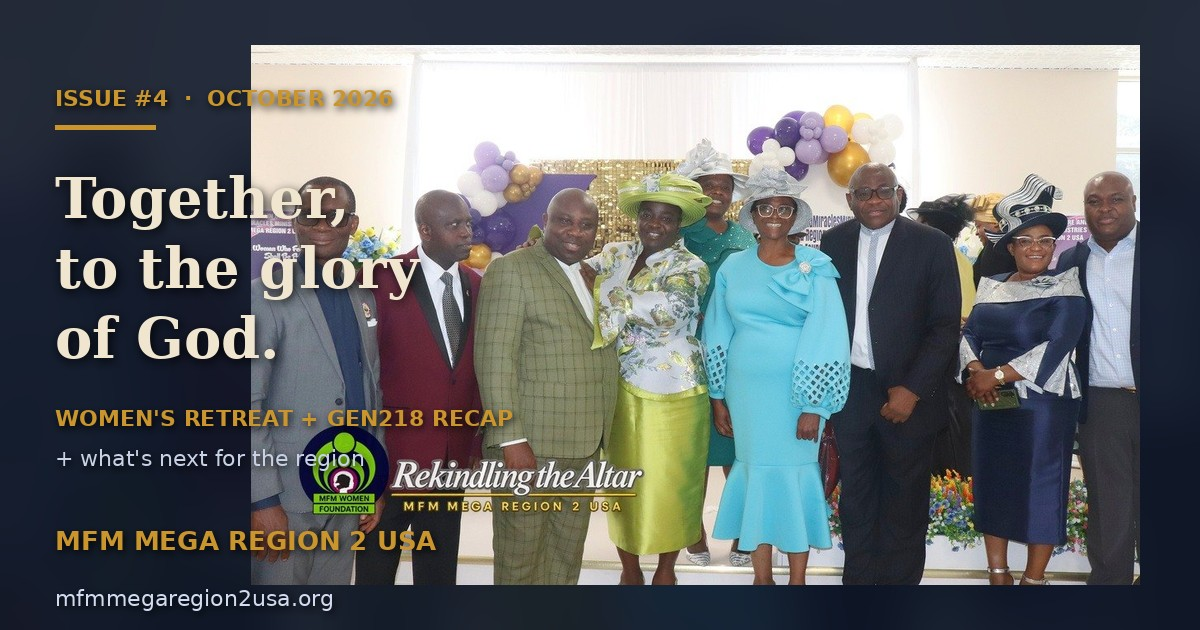
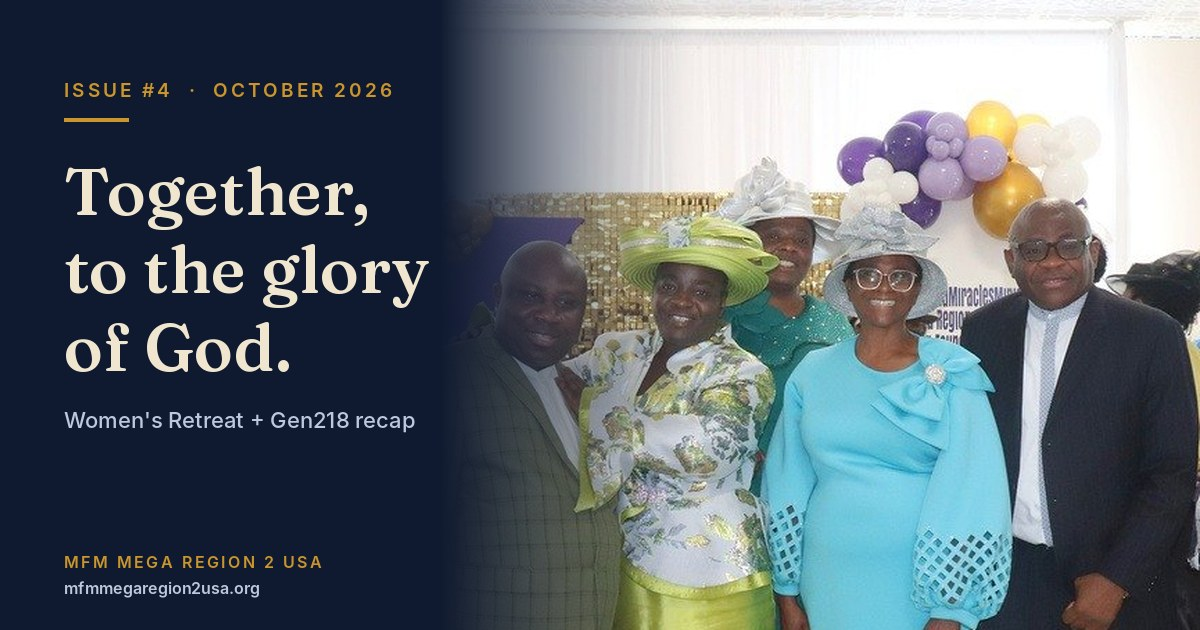
Newsletter: header with All issues / Home, readable Issue #4 cover + hero, WhatsApp share text matches Issue #4
Claude-Session: https://claude.ai/code/session_017aQov46sXv2f5aMMZ73FaV

diff --git a/newsletter/issue-4.html b/newsletter/issue-4.html
@@ -11,7 +11,7 @@
 <meta property="og:site_name" content="MFM Mega Region 2 USA"/>
 <meta property="og:title" content="Together, to the glory of God. — MFM Mega Region 2 Newsletter"/>
 <meta property="og:description" content="The altar burned. The next generation prayed. Here&#x27;s what carries forward."/>
-<meta property="og:image" content="https://www.mfmmegaregion2usa.org/img/newsletter/issue-4-og.jpg"/>
+<meta property="og:image" content="https://www.mfmmegaregion2usa.org/img/newsletter/issue-4-og.jpg?v=2"/>
 <meta property="og:image:width" content="1200"/>
 <meta property="og:image:height" content="630"/>
 <meta property="og:url" content="https://www.mfmmegaregion2usa.org/newsletter/issue-4"/>
@@ -19,7 +19,7 @@
 <meta name="twitter:card" content="summary_large_image"/>
 <meta name="twitter:title" content="Together, to the glory of God. — MFM Mega Region 2 Newsletter"/>
 <meta name="twitter:description" content="The altar burned. The next generation prayed. Here&#x27;s what carries forward."/>
-<meta name="twitter:image" content="https://www.mfmmegaregion2usa.org/img/newsletter/issue-4-og.jpg"/>
+<meta name="twitter:image" content="https://www.mfmmegaregion2usa.org/img/newsletter/issue-4-og.jpg?v=2"/>
 
 <link rel="icon" href="/favicon.ico" sizes="any"/>
 <link rel="icon" type="image/png" href="/img/favicon-32.png"/>
@@ -38,7 +38,7 @@
   .mag-hero{
     position:relative; min-height:62vh; display:flex; align-items:flex-end;
     background:var(--navy) center top/cover no-repeat;
-    background-image: linear-gradient(180deg, rgba(15,26,48,.4) 0%, rgba(15,26,48,.75) 55%, rgba(15,26,48,.98) 100%), url('https://www.mfmmegaregion2usa.org/img/gallery/women-retreat-2026/retreat-68.jpg');
+    background-image: linear-gradient(90deg, rgba(15,26,48,.94) 0%, rgba(15,26,48,.82) 38%, rgba(15,26,48,.35) 75%, rgba(15,26,48,.2) 100%), linear-gradient(180deg, rgba(15,26,48,.25) 0%, rgba(15,26,48,.55) 60%, rgba(15,26,48,.98) 100%), url('https://www.mfmmegaregion2usa.org/img/gallery/women-retreat-2026/retreat-68.jpg');
     background-position: center 25%;
     color:#f0e6d0; padding:40px 20px 56px; overflow:hidden;
   }
@@ -138,7 +138,7 @@
   .mag-share-float svg{width:28px; height:28px; fill:#fff;}
 
   @media (max-width:720px){
-    .mag-hero{min-height:52vh;}
+    .mag-hero{min-height:52vh; background-image: linear-gradient(180deg, rgba(15,26,48,.55) 0%, rgba(15,26,48,.85) 45%, rgba(15,26,48,.98) 100%), url('https://www.mfmmegaregion2usa.org/img/gallery/women-retreat-2026/retreat-68.jpg') !important;}
     .mag-hero h1{font-size:36px;}
     .mag-hero .teaser{font-size:16px;}
     .mag-nav{grid-template-columns:1fr;}
@@ -386,7 +386,7 @@
         <p style="margin:0 0 8px;font-size:11px;font-weight:700;letter-spacing:.14em;text-transform:uppercase;color:#c9952c;">PASS IT ON</p>
         <p style="margin:0 0 14px;font-family:Georgia,serif;font-size:17px;line-height:1.4;color:#142240;">Know someone who needs this fire?</p>
         <p style="margin:0 0 20px;font-size:14px;line-height:1.6;color:#5a6270;">Tap below to open WhatsApp with the full issue ready to send &mdash; cover, headline, and read link all together.</p>
-        <a href="https://wa.me/?text=https%3A%2F%2Fwww.mfmmegaregion2usa.org%2Fnewsletter%2Fissue-4%0A%0A%F0%9F%94%A5%20MFM%20MEGA%20REGION%202%20USA%20%E2%80%94%20NEWSLETTER%20ISSUE%20%234%0A%0A%22The%20fire%20has%20not%20grown%20cold.%22%0A%0AThe%20altar%20burned%20at%20the%20Women%27s%20Retreat%20%E2%80%94%20scenes%2C%20prayer%20points%2C%20and%20what%27s%20next%20for%20the%20region.%0A%0AInside%3A%0A%F0%9F%97%92%20Pastor%20Olumide%20Oni%27s%20word%20on%20keeping%20the%20fire%0A%F0%9F%96%BC%20Women%27s%20Retreat%20gallery%0A%F0%9F%8E%A5%20Warfare%20Praise%20video%0A%F0%9F%94%A5%20Nashville%20Nov%2019%20%2B%20Dallas%20Nov%2021%20crusades%0A%F0%9F%93%96%20Free%20book%3A%20Your%20Destiny%20Is%20Unstoppable%0A%F0%9F%99%8F%20Prayer%20points%20for%20this%20week%0A%0A%F0%9F%91%89%20Tap%20the%20link%20above%20to%20read." style="display:inline-block;background:#25D366;color:#ffffff;text-decoration:none;padding:12px 24px;border-radius:4px;font-size:13px;font-weight:700;letter-spacing:.1em;" target="_blank" rel="noopener">
+        <a href="https://wa.me/?text=https%3A%2F%2Fwww.mfmmegaregion2usa.org%2Fnewsletter%2Fissue-4%0A%0A%F0%9F%94%A5%20MFM%20MEGA%20REGION%202%20USA%20%E2%80%94%20NEWSLETTER%20ISSUE%20%234%0A%0A%22Together%2C%20to%20the%20glory%20of%20God.%22%0A%0AThe%20altar%20burned.%20The%20next%20generation%20prayed.%20Here%27s%20what%20carries%20forward.%0A%0AInside%3A%0A%F0%9F%97%92%20Pastor%20Olumide%20Oni%27s%20word%3A%20Keep%20the%20fire%20burning%0A%F0%9F%96%BC%20Women%27s%20Retreat%20%2B%20Gen218%20Prayer%20Conference%20galleries%0A%F0%9F%8E%A5%20Two%20voices%2C%20one%20fire%3A%20this%20week%27s%20messages%0A%F0%9F%94%A5%20Nashville%20Nov%2019%20%2B%20Dallas%20Nov%2021%20crusades%0A%F0%9F%92%91%20Couples%20Night%20%2B%20Thanksgiving%20Service%0A%F0%9F%93%96%20Free%20book%3A%20Your%20Destiny%20Is%20Unstoppable%0A%F0%9F%99%8F%20Prayer%20points%20for%20this%20week%0A%0A%F0%9F%91%89%20Tap%20the%20link%20above%20to%20read." style="display:inline-block;background:#25D366;color:#ffffff;text-decoration:none;padding:12px 24px;border-radius:4px;font-size:13px;font-weight:700;letter-spacing:.1em;" target="_blank" rel="noopener">
           <img src="https://www.mfmmegaregion2usa.org/img/social/whatsapp-white-mark.png" alt="" width="18" height="18" style="vertical-align:middle;margin-right:8px;border:0;" />SHARE ON WHATSAPP
         </a>
       </td></tr>
@@ -441,7 +441,7 @@
 
 </main>
 
-<a class="mag-share-float" href="https://wa.me/?text=MFM%20Mega%20Region%202%20newsletter%20%E2%80%94%20Together,%20to%20the%20glory%20of%20God.%20%7C%20https://www.mfmmegaregion2usa.org/newsletter/issue-4" target="_blank" rel="noopener" title="Share on WhatsApp">
+<a class="mag-share-float" href="https://wa.me/?text=https%3A%2F%2Fwww.mfmmegaregion2usa.org%2Fnewsletter%2Fissue-4%0A%0A%F0%9F%94%A5%20MFM%20MEGA%20REGION%202%20USA%20%E2%80%94%20NEWSLETTER%20ISSUE%20%234%0A%0A%22Together%2C%20to%20the%20glory%20of%20God.%22%0A%0AThe%20altar%20burned.%20The%20next%20generation%20prayed.%20Here%27s%20what%20carries%20forward.%0A%0AInside%3A%0A%F0%9F%97%92%20Pastor%20Olumide%20Oni%27s%20word%3A%20Keep%20the%20fire%20burning%0A%F0%9F%96%BC%20Women%27s%20Retreat%20%2B%20Gen218%20Prayer%20Conference%20galleries%0A%F0%9F%8E%A5%20Two%20voices%2C%20one%20fire%3A%20this%20week%27s%20messages%0A%F0%9F%94%A5%20Nashville%20Nov%2019%20%2B%20Dallas%20Nov%2021%20crusades%0A%F0%9F%92%91%20Couples%20Night%20%2B%20Thanksgiving%20Service%0A%F0%9F%93%96%20Free%20book%3A%20Your%20Destiny%20Is%20Unstoppable%0A%F0%9F%99%8F%20Prayer%20points%20for%20this%20week%0A%0A%F0%9F%91%89%20Tap%20the%20link%20above%20to%20read." target="_blank" rel="noopener" title="Share on WhatsApp">
   <svg viewBox="0 0 24 24" xmlns="http://www.w3.org/2000/svg"><path d="M17.472 14.382c-.297-.149-1.758-.867-2.03-.967-.273-.099-.471-.148-.67.15-.197.297-.767.966-.94 1.164-.173.199-.347.223-.644.075-.297-.15-1.255-.463-2.39-1.475-.883-.788-1.48-1.761-1.653-2.059-.173-.297-.018-.458.13-.606.134-.133.298-.347.446-.52.149-.174.198-.298.298-.497.099-.198.05-.371-.025-.52-.075-.149-.669-1.612-.916-2.207-.242-.579-.487-.5-.669-.51-.173-.008-.371-.01-.57-.01-.198 0-.52.074-.792.372-.272.297-1.04 1.016-1.04 2.479 0 1.462 1.065 2.875 1.213 3.074.149.198 2.096 3.2 5.077 4.487.709.306 1.262.489 1.694.625.712.227 1.36.195 1.871.118.571-.085 1.758-.719 2.006-1.413.248-.694.248-1.289.173-1.413-.074-.124-.272-.198-.57-.347m-5.421 7.403h-.004a9.87 9.87 0 01-5.031-1.378l-.361-.214-3.741.982.998-3.648-.235-.374a9.86 9.86 0 01-1.51-5.26c.001-5.45 4.436-9.884 9.888-9.884 2.64 0 5.122 1.03 6.988 2.898a9.825 9.825 0 012.893 6.994c-.003 5.45-4.437 9.884-9.885 9.884m8.413-18.297A11.815 11.815 0 0012.05 0C5.495 0 .16 5.335.157 11.892c0 2.096.547 4.142 1.588 5.945L.057 24l6.305-1.654a11.882 11.882 0 005.683 1.448h.005c6.554 0 11.89-5.335 11.893-11.893a11.821 11.821 0 00-3.48-8.413Z"/></svg>
 </a>
 

diff --git a/newsletter/index.html b/newsletter/index.html
@@ -11,14 +11,14 @@
 <meta property="og:site_name" content="MFM Mega Region 2 USA"/>
 <meta property="og:title" content="Come and see what God did. — MFM Mega Region 2 Newsletter"/>
 <meta property="og:description" content="The gallery is live. The crusade testimonies are landing. Here&#x27;s what&#x27;s next."/>
-<meta property="og:image" content="https://www.mfmmegaregion2usa.org/img/newsletter/issue-4-og.jpg"/>
+<meta property="og:image" content="https://www.mfmmegaregion2usa.org/img/newsletter/issue-4-og.jpg?v=2"/>
 <meta property="og:image:width" content="1200"/>
 <meta property="og:image:height" content="630"/>
 <meta property="og:url" content="https://www.mfmmegaregion2usa.org/newsletter"/>
 <meta name="twitter:card" content="summary_large_image"/>
 <meta name="twitter:title" content="Come and see what God did. — MFM Mega Region 2 Newsletter"/>
 <meta name="twitter:description" content="The gallery is live. The crusade testimonies are landing. Here&#x27;s what&#x27;s next."/>
-<meta name="twitter:image" content="https://www.mfmmegaregion2usa.org/img/newsletter/issue-4-og.jpg"/>
+<meta name="twitter:image" content="https://www.mfmmegaregion2usa.org/img/newsletter/issue-4-og.jpg?v=2"/>
 
 <link rel="icon" href="/favicon.ico" sizes="any"/>
 <link rel="icon" type="image/png" href="/img/favicon-32.png"/>
@@ -92,7 +92,7 @@
       <div class="latest-badge">Latest Issue</div>
       <div class="latest-grid">
         <a href="/newsletter/issue-4" class="latest-card">
-          <img src="/img/newsletter/issue-4-og.jpg" alt="Issue #4 cover"/>
+          <img src="/img/newsletter/issue-4-og.jpg?v=2" alt="Issue #4 cover"/>
         </a>
         <div class="latest-meta">
           <div class="issue-number">ISSUE #4 &middot; October 2026</div>
@@ -150,7 +150,7 @@
 
 <script src="/js/nav.js" defer></script>
 
-<script id="nl-issues" type="application/json">{"published": [4, 3, 2, 1], "issues": {"1": {"n": 1, "title": "Fire in the bone.", "desc": "August prayer points, Prevailing Women, and the crusades ahead.", "month": "August 2026", "img": "/img/newsletter/issue-1-og.jpg", "date": "2026-08-19"}, "2": {"n": 2, "title": "The fire didn't stay in Burlington.", "desc": "What happened at the NC crusade. What's coming next.", "month": "September 2026", "img": "/img/newsletter/issue-2-og.jpg", "date": "2026-09-28"}, "3": {"n": 3, "title": "Come and see what God did.", "desc": "The gallery is live. The crusade testimonies are landing. Here's what's next.", "month": "October 2026", "img": "/img/newsletter/issue-3-og.jpg", "date": "2026-10-07"}, "4": {"n": 4, "title": "Together, to the glory of God.", "desc": "The altar burned. The next generation prayed. Here's what carries forward.", "month": "October 2026", "img": "/img/newsletter/issue-4-og.jpg", "date": "2026-10-21"}}}</script>
+<script id="nl-issues" type="application/json">{"published": [4, 3, 2, 1], "issues": {"1": {"n": 1, "title": "Fire in the bone.", "desc": "August prayer points, Prevailing Women, and the crusades ahead.", "month": "August 2026", "img": "/img/newsletter/issue-1-og.jpg", "date": "2026-08-19"}, "2": {"n": 2, "title": "The fire didn't stay in Burlington.", "desc": "What happened at the NC crusade. What's coming next.", "month": "September 2026", "img": "/img/newsletter/issue-2-og.jpg", "date": "2026-09-28"}, "3": {"n": 3, "title": "Come and see what God did.", "desc": "The gallery is live. The crusade testimonies are landing. Here's what's next.", "month": "October 2026", "img": "/img/newsletter/issue-3-og.jpg", "date": "2026-10-07"}, "4": {"n": 4, "title": "Together, to the glory of God.", "desc": "The altar burned. The next generation prayed. Here's what carries forward.", "month": "October 2026", "img": "/img/newsletter/issue-4-og.jpg?v=2", "date": "2026-10-21"}}}</script>
 <script id="nl-hub-sync">(function(){try{
 var D=JSON.parse(document.getElementById('nl-issues').textContent),shown=D.published;
 function e(s){return String(s).replace(/[&<>"']/g,function(c){return{'&':'&amp;','<':'&lt;','>':'&gt;','"':'&quot;',"'":'&#39;'}[c];});}

diff --git a/js/nav.js b/js/nav.js
@@ -1,0 +1,32 @@
+/* Newsletter pages header (owner request, Oct 21 2026): every newsletter page gets a way back.
+   Fills <header class="site-header" data-nav> on /newsletter and on each /newsletter/issue-N page:
+     - logo + "Mega Region 2 USA"  -> the website homepage (/)
+     - on an issue page: "All issues" -> /newsletter, and "Home" -> /
+     - on /newsletter itself: "Back to the website" -> /
+   The issue pages are archived emails, so the header is a small, self-contained bar (no site CSS needed). */
+(function(){try{
+  var h=document.querySelector('header[data-nav]');if(!h||h.getAttribute('data-nav-done'))return;
+  h.setAttribute('data-nav-done','1');
+  var path=location.pathname.replace(/\/+$/,'').replace(/\.html$/,'');
+  var onHub=/\/newsletter(\/index)?$/.test(path);
+  var arrow='<svg viewBox="0 0 24 24" aria-hidden="true"><path d="M19 12H5"/><path d="m11 18-6-6 6-6"/></svg>';
+  var css=document.createElement('style');
+  css.textContent='.nl-bar{position:sticky;top:0;z-index:60;background:#142240;border-bottom:1px solid rgba(201,149,44,.35);font-family:"Inter Tight",Inter,-apple-system,Helvetica,Arial,sans-serif}'+
+    '.nl-bar-in{max-width:1180px;margin:0 auto;height:64px;padding:0 20px;display:flex;align-items:center;justify-content:space-between;gap:16px}'+
+    '.nl-brand{display:flex;align-items:center;gap:10px;color:#f0e6d0;text-decoration:none;min-width:0}'+
+    '.nl-brand img{width:38px;height:38px;flex:none}.nl-brand b{font-family:Georgia,Fraunces,serif;font-weight:400;font-size:17px;white-space:nowrap}'+
+    '.nl-brand small{display:block;font-size:10px;letter-spacing:.16em;text-transform:uppercase;color:#c9952c;margin-top:1px}'+
+    '.nl-links{display:flex;align-items:center;gap:8px;flex:none}'+
+    '.nl-links a{display:inline-flex;align-items:center;gap:7px;min-height:40px;padding:0 14px;color:#f0e6d0;text-decoration:none;font-size:13px;font-weight:600;letter-spacing:.04em;border:1px solid transparent;border-radius:2px}'+
+    '.nl-links a.pri{border-color:rgba(201,149,44,.6);color:#e0ad45}.nl-links a:hover{background:rgba(255,255,255,.06)}'+
+    '.nl-links a:focus-visible,.nl-brand:focus-visible{outline:3px solid #f0c760;outline-offset:2px}'+
+    '.nl-links svg{width:16px;height:16px;fill:none;stroke:currentColor;stroke-width:2;stroke-linecap:round;stroke-linejoin:round}'+
+    '@media(max-width:560px){.nl-brand b{font-size:15px}.nl-brand small{display:none}.nl-links a{padding:0 10px;font-size:12px}.nl-links a.home{display:none}}';
+  document.head.appendChild(css);
+  h.className+=' nl-bar';
+  h.innerHTML='<div class="nl-bar-in"><a class="nl-brand" href="/" aria-label="MFM Mega Region 2 USA home"><img src="/img/logo.png" alt="" width="38" height="38"><span><b>Mega Region 2 USA</b><small>The Newsletter</small></span></a>'+
+    '<nav class="nl-links" aria-label="Newsletter">'+
+    (onHub?'<a class="pri" href="/">'+arrow+'Back to the website</a>'
+          :'<a class="pri" href="/newsletter">'+arrow+'All issues</a><a class="home" href="/">Home</a>')+
+    '</nav></div>';
+}catch(e){}})();

diff --git a/subscribe.html b/subscribe.html
@@ -107,7 +107,7 @@
 
 <footer class="site-footer" data-footer></footer>
 
-<script src="/js/nav.js" defer></script>
+<script src="/js/nav.js?v=9af14a9741" defer></script>
 <script>
 (function(){
   var form = document.getElementById('sub-form');

diff --git a/newsletter/README.md b/newsletter/README.md
@@ -49,3 +49,12 @@ has been **sent**, the site picks it up by itself:
 - `/newsletter` also checks in the browser, so visitors see the new issue within about 5 minutes of the send.
 
 An issue page published ahead of the send stays off `/newsletter` until Brevo shows it as sent.
+
+## WhatsApp share links (standing rule)
+
+Every issue page and email carries a WhatsApp "Pass it on" share whose pre-filled text starts with the issue
+URL on its own first line (`https://www.mfmmegaregion2usa.org/newsletter/issue-N`), then a blank line, then the
+rich message (title, teaser, "Inside:" list, "👉 Tap the link above to read."). Hardcode it; never use Brevo
+`{{ mirror }}` inside an encoded href. **If the issue's title or contents change, update the share text too**
+(Issue #4 was retitled after its share text was written; fixed Oct 21 2026). The floating WhatsApp button on
+the issue page uses the same text. Newsletter pages get their header (back to All issues / Home) from `js/nav.js`.
